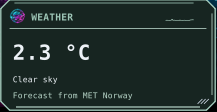
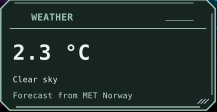
Show unbranded Professional Weather widget

Changed region(s): [[0.0276, 0.0804, 0.1382, 0.2143], [0.8571, 0.1607, 0.9124, 0.1875], [0.7742, 0.1607, 0.8018, 0.1875]]

diff --git a/website/index.html b/website/index.html
@@ -4,6 +4,6 @@
 </head><body>
 <main><img class="brand" src="https://raw.githubusercontent.com/AstraShadowsss/ShadowRealm-OS/main/branding/banner-neon.png" alt="ShadowRealm-OS SR logo and wordmark"><p class="badge">2026.11 beta 1 · AMD64</p><h1>A familiar Linux desktop with a style of its own.</h1><p class="lede">Built on Debian 13 and Xfce, ShadowRealm-OS brings applications, desktop controls and live status panels into one coordinated workspace. Try it from a USB drive or virtual machine before installing.</p><nav class="buttons"><a class="button primary" href="https://sourceforge.net/projects/shadowrealm-os/files/2026.11-beta1/ShadowRealm-OS-2026.11-beta1-r4-amd64.iso/download">Download the beta ISO</a><a class="button" href="https://astrashadowsss.github.io/ShadowRealm-OS/docs/installation.html">Installation guide</a><a class="button" href="https://github.com/AstraShadowsss/ShadowRealm-OS">Source and documentation</a><a class="button" href="https://shadowrealm-os.sourceforge.io/apt/">Updates &amp; Packages</a></nav><img class="screen" src="https://raw.githubusercontent.com/AstraShadowsss/ShadowRealm-OS/main/screenshots/desktop.png" alt="Neon desktop with panel, dock and four local widgets">
 <section class="grid"><article class="card"><h2>Make it yours</h2><p>Eight coordinated styles, drag-and-drop dock editing, independent wallpapers and configurable background transparency. Native third-party application icons stay recognizable.</p></article><article class="card"><h2>Everyday controls</h2><p>Network, audio, Bluetooth, accounts, appearance and software tools. Movable widgets display resources, traffic, processes and privacy-service status. Optional widgets add a clock, calendar, local notes and a weather forecast.</p></article><article class="card"><h2>Updates you control</h2><p>Debian and configured vendors provide their updates. A signed repository supplies custom desktop components and nine offline games. Software &amp; Updates shows available APT updates; Flatpak updates are separate.</p></article></section>
-<h2>Wallpaper collection</h2><img class="screen" src="https://raw.githubusercontent.com/AstraShadowsss/ShadowRealm-OS/main/screenshots/wallpaper-styles.png" alt="Red and Black, Black and Blue, Neon, and Hacker with four different wallpapers" loading="lazy"><h2>Neon circuit corridor</h2><img class="screen" src="https://raw.githubusercontent.com/AstraShadowsss/ShadowRealm-OS/main/screenshots/neon-circuit-corridor.png" alt="SR logo over cyan and magenta circuitry in the Neon corridor wallpaper" loading="lazy"><h2>Seated City</h2><img class="screen" src="https://raw.githubusercontent.com/AstraShadowsss/ShadowRealm-OS/main/screenshots/seated-theme-styles.png" alt="Six colors of the Seated City wallpaper" loading="lazy"><h2>Control Center</h2><img class="screen" src="https://raw.githubusercontent.com/AstraShadowsss/ShadowRealm-OS/main/screenshots/control-center-neon.png" alt="Searchable Control Center in Neon" loading="lazy"><h2>Clock, Calendar, Notes and Weather</h2><section class="grid widget-grid"><article class="card"><h3>Clock</h3><img style="max-width:100%;height:auto" src="https://raw.githubusercontent.com/AstraShadowsss/ShadowRealm-OS/main/screenshots/widget-clock.png" alt="Clock widget" loading="lazy"></article><article class="card"><h3>Calendar</h3><img style="max-width:100%;height:auto" src="https://raw.githubusercontent.com/AstraShadowsss/ShadowRealm-OS/main/screenshots/widget-calendar.png" alt="Calendar widget" loading="lazy"></article><article class="card"><h3>Notes</h3><img style="max-width:100%;height:auto" src="https://raw.githubusercontent.com/AstraShadowsss/ShadowRealm-OS/main/screenshots/widget-notes.png" alt="Notes widget" loading="lazy"></article><article class="card"><h3>Weather</h3><img style="max-width:100%;height:auto" src="https://raw.githubusercontent.com/AstraShadowsss/ShadowRealm-OS/main/screenshots/widget-weather-professional.png" alt="Weather widget showing forecast temperature and conditions" loading="lazy"></article></section><h2>Professional desktop</h2><img class="screen" src="https://raw.githubusercontent.com/AstraShadowsss/ShadowRealm-OS/main/screenshots/widget-settings-professional.png" alt="Professional theme showing separate Clock, Calendar and Notes widgets" loading="lazy"><h2>System tools</h2><img class="screen" src="https://raw.githubusercontent.com/AstraShadowsss/ShadowRealm-OS/main/screenshots/system-tools.png" alt="Network, Shadow Shield and Software &amp; Updates controls" loading="lazy"><p><a href="https://astrashadowsss.github.io/ShadowRealm-OS/docs/widgets.html">Desktop widgets guide</a></p><h2>Before you install</h2><p>This is a public beta. Back up your files, check the ISO checksum and test hardware from the live desktop. BIOS and UEFI installation paths are included; Secure Boot and dual-boot setups are not certified for this release. Optional disk encryption is configured during installation.</p><nav class="buttons"><a href="https://sourceforge.net/projects/shadowrealm-os/files/2026.11-beta1/SHA256SUMS/download">Checksums</a><a href="https://astrashadowsss.github.io/ShadowRealm-OS/docs/system-requirements.html">System requirements</a><a href="https://astrashadowsss.github.io/ShadowRealm-OS/docs/validation.html">Validation and limits</a><a href="https://astrashadowsss.github.io/ShadowRealm-OS/docs/roadmap.html">Roadmap</a><a href="https://github.com/AstraShadowsss/ShadowRealm-OS/issues">Report an issue</a></nav>
+<h2>Wallpaper collection</h2><img class="screen" src="https://raw.githubusercontent.com/AstraShadowsss/ShadowRealm-OS/main/screenshots/wallpaper-styles.png" alt="Red and Black, Black and Blue, Neon, and Hacker with four different wallpapers" loading="lazy"><h2>Neon circuit corridor</h2><img class="screen" src="https://raw.githubusercontent.com/AstraShadowsss/ShadowRealm-OS/main/screenshots/neon-circuit-corridor.png" alt="SR logo over cyan and magenta circuitry in the Neon corridor wallpaper" loading="lazy"><h2>Seated City</h2><img class="screen" src="https://raw.githubusercontent.com/AstraShadowsss/ShadowRealm-OS/main/screenshots/seated-theme-styles.png" alt="Six colors of the Seated City wallpaper" loading="lazy"><h2>Control Center</h2><img class="screen" src="https://raw.githubusercontent.com/AstraShadowsss/ShadowRealm-OS/main/screenshots/control-center-neon.png" alt="Searchable Control Center in Neon" loading="lazy"><h2>Clock, Calendar, Notes and Weather</h2><section class="grid widget-grid"><article class="card"><h3>Clock</h3><img style="max-width:100%;height:auto" src="https://raw.githubusercontent.com/AstraShadowsss/ShadowRealm-OS/main/screenshots/widget-clock.png" alt="Clock widget" loading="lazy"></article><article class="card"><h3>Calendar</h3><img style="max-width:100%;height:auto" src="https://raw.githubusercontent.com/AstraShadowsss/ShadowRealm-OS/main/screenshots/widget-calendar.png" alt="Calendar widget" loading="lazy"></article><article class="card"><h3>Notes</h3><img style="max-width:100%;height:auto" src="https://raw.githubusercontent.com/AstraShadowsss/ShadowRealm-OS/main/screenshots/widget-notes.png" alt="Notes widget" loading="lazy"></article><article class="card"><h3>Weather</h3><img style="max-width:100%;height:auto" src="https://raw.githubusercontent.com/AstraShadowsss/ShadowRealm-OS/main/screenshots/widget-weather-professional-clean.png" alt="Weather widget showing forecast temperature and conditions" loading="lazy"></article></section><h2>Professional desktop</h2><img class="screen" src="https://raw.githubusercontent.com/AstraShadowsss/ShadowRealm-OS/main/screenshots/widget-settings-professional.png" alt="Professional theme showing separate Clock, Calendar and Notes widgets" loading="lazy"><h2>System tools</h2><img class="screen" src="https://raw.githubusercontent.com/AstraShadowsss/ShadowRealm-OS/main/screenshots/system-tools.png" alt="Network, Shadow Shield and Software &amp; Updates controls" loading="lazy"><p><a href="https://astrashadowsss.github.io/ShadowRealm-OS/docs/widgets.html">Desktop widgets guide</a></p><h2>Before you install</h2><p>This is a public beta. Back up your files, check the ISO checksum and test hardware from the live desktop. BIOS and UEFI installation paths are included; Secure Boot and dual-boot setups are not certified for this release. Optional disk encryption is configured during installation.</p><nav class="buttons"><a href="https://sourceforge.net/projects/shadowrealm-os/files/2026.11-beta1/SHA256SUMS/download">Checksums</a><a href="https://astrashadowsss.github.io/ShadowRealm-OS/docs/system-requirements.html">System requirements</a><a href="https://astrashadowsss.github.io/ShadowRealm-OS/docs/validation.html">Validation and limits</a><a href="https://astrashadowsss.github.io/ShadowRealm-OS/docs/roadmap.html">Roadmap</a><a href="https://github.com/AstraShadowsss/ShadowRealm-OS/issues">Report an issue</a></nav>
 <footer>Original project work: MIT. Bundled software, libraries, firmware, fonts and adapted artwork retain their own licenses. <a href="https://sourceforge.net/projects/shadowrealm-os/files/2026.11-beta1/">ISO, checksums and license notices</a>. <a href="https://sourceforge.net/projects/shadowrealm-os/files/2026.11-beta1/Sources/">Custom source and source-download guide</a>. <a href="https://github.com/AstraShadowsss/ShadowRealm-OS/releases/tag/2026.11-beta1-r2">Third-party source attachments on GitHub</a>. ShadowRealm-OS is an independent Debian-based project.</footer></main>
 </body></html>

diff --git a/README.md b/README.md
@@ -57,7 +57,7 @@ The AMD64 ISO starts a live desktop so you can try it before installing. Open **
 
 | Clock | Calendar | Notes | Weather |
 | --- | --- | --- | --- |
-| ![Clock widget showing the time](screenshots/widget-clock.png) | ![Calendar widget showing the month](screenshots/widget-calendar.png) | ![Notes widget showing saved notes](screenshots/widget-notes.png) | ![Weather widget showing forecast temperature and conditions](screenshots/widget-weather-professional.png) |
+| ![Clock widget showing the time](screenshots/widget-clock.png) | ![Calendar widget showing the month](screenshots/widget-calendar.png) | ![Notes widget showing saved notes](screenshots/widget-notes.png) | ![Weather widget showing forecast temperature and conditions](screenshots/widget-weather-professional-clean.png) |
 
 ![Separate Clock, Calendar and Notes widgets alongside their settings](screenshots/widget-settings-professional.png)
 
